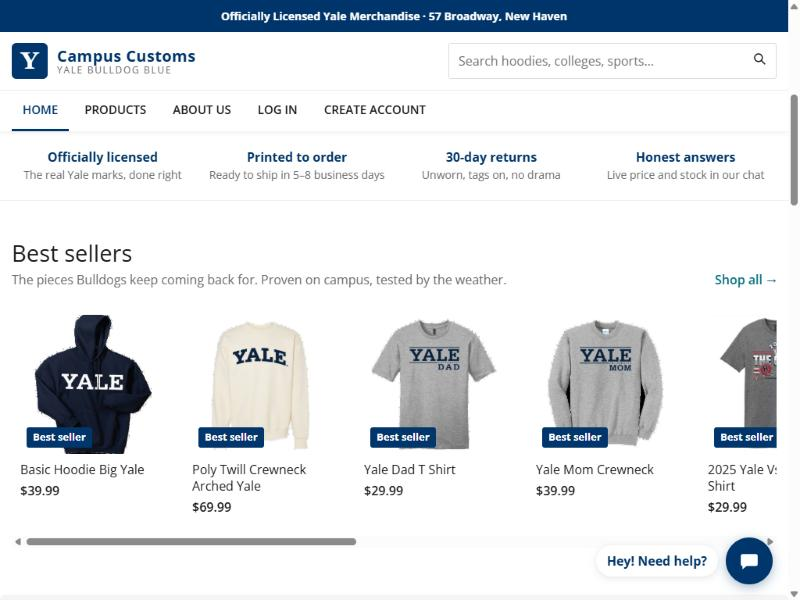
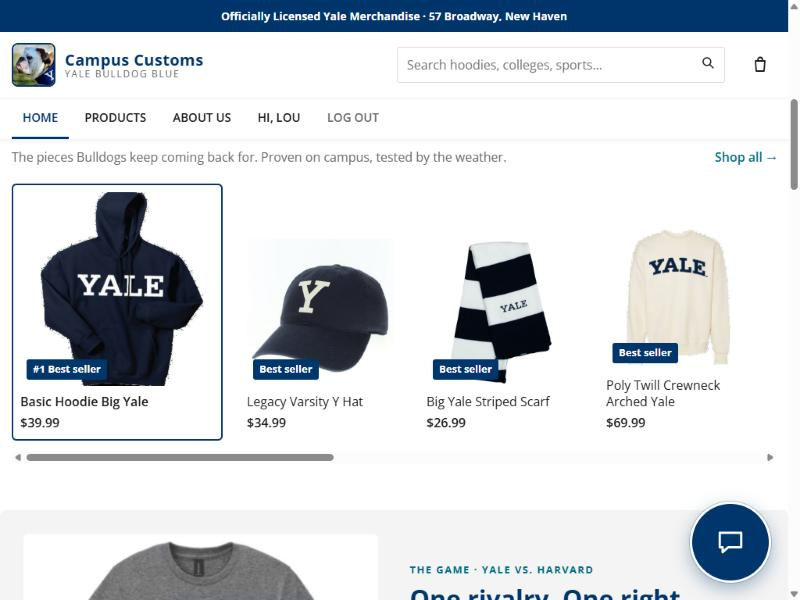
Home: #1 best-seller hoodie shown larger in its row
- Basic Hoodie Big Yale card is about 30% wider than the rest, with a thin
  navy frame and a "#1 Best seller" badge
- Screenshot p3_02 refreshed, prompt log updated

diff --git a/frontend/src/components/ProductCard.tsx b/frontend/src/components/ProductCard.tsx
@@ -8,9 +8,10 @@ interface Props {
   product: ProductSummary
   showDescription?: boolean
   showActions?: boolean
+  featured?: boolean  // shown a little larger, e.g. the #1 best seller
 }
 
-export default function ProductCard({ product, showDescription = true, showActions = false }: Props) {
+export default function ProductCard({ product, showDescription = true, showActions = false, featured = false }: Props) {
   const top = product.best_seller_rank !== null && product.best_seller_rank <= 12
   const { add } = useCart()
   const [choosing, setChoosing] = useState(false)
@@ -23,11 +24,11 @@ export default function ProductCard({ product, showDescription = true, showActio
   }
 
   return (
-    <div className="product-card">
+    <div className={`product-card${featured ? ' product-card-featured' : ''}`}>
       <Link to={`/products/${product.product_id}`} className="product-card-link">
         <div className="product-card-image">
           <img src={product.image_url} alt={product.name} loading="lazy" />
-          {top && <span className="badge badge-best">Best seller</span>}
+          {top && <span className="badge badge-best">{featured && product.best_seller_rank === 1 ? '#1 Best seller' : 'Best seller'}</span>}
           {!product.in_stock && <span className="badge badge-sold">Sold out</span>}
         </div>
         <div className="product-card-body">

diff --git a/frontend/src/styles.css b/frontend/src/styles.css
@@ -118,8 +118,11 @@ button, input, select { font: inherit; }
 .section-head { display: flex; justify-content: space-between; align-items: end; gap: 16px; margin-bottom: 18px; }
 .section-title { font-size: 1.825rem; margin-bottom: 4px; }
 .section-intro { margin: 0; color: var(--text-light); max-width: 46em; }
-.product-row { display: grid; grid-auto-flow: column; grid-auto-columns: minmax(200px, 1fr); gap: 20px; overflow-x: auto; padding: 4px 4px 14px; scroll-snap-type: x mandatory; }
-.product-row > * { scroll-snap-align: start; }
+.product-row { display: flex; align-items: flex-end; gap: 20px; overflow-x: auto; padding: 4px 4px 14px; scroll-snap-type: x mandatory; }
+.product-row > * { flex: 0 0 210px; scroll-snap-align: start; height: auto; }
+/* The #1 best-selling hoodie stands a little larger than the rest of its row */
+.product-row > .product-card-featured { flex-basis: 270px; box-shadow: 0 0 0 2px var(--navy) inset; }
+.product-card-featured h3 { font-size: 1.05rem; font-weight: 600; }
 .row-skeleton { height: 300px; background: linear-gradient(90deg, #f4f4f4, #ececec, #f4f4f4); background-size: 200% 100%; animation: shimmer 1.2s infinite; border-radius: 6px; }
 @keyframes shimmer { to { background-position: -200% 0; } }
 

diff --git a/frontend/src/components/ProductRow.tsx b/frontend/src/components/ProductRow.tsx
@@ -29,7 +29,8 @@ export default function ProductRow({ title, intro, query, shopLink, shopLabel = 
       {data && (
         <div className="product-row">
           {data.map((p) => (
-            <ProductCard key={p.product_id} product={p} showDescription={false} />
+            <ProductCard key={p.product_id} product={p} showDescription={false}
+              featured={p.best_seller_rank === 1 && p.category === 'Hoodies'} />
           ))}
         </div>
       )}

diff --git a/AI_prompts.md b/AI_prompts.md
@@ -300,6 +300,14 @@ This is the log of what I typed to my vibe coder (Claude Code) while building th
   - Screenshots `p5_13` to `p5_15`.
 - **Pushed** to `github.com/Louyale/campuscustomschat`.
 
+> make the best seller hoodie a little larger than the rest
+
+**Result:** In the home page's Best sellers row (and the hoodie row), the #1 best seller, the Basic Hoodie Big Yale, is now about 30% wider than the other cards (270 px vs 210 px), with a thin navy frame and a "#1 Best seller" badge. Screenshot `p3_02` refreshed.
+
+> Yes, commit the larger best-seller hoodie and push it to the campuscustomschat repo.
+
+**Result:** Committed and pushed to `github.com/Louyale/campuscustomschat`.
+
 ---
 
 ## Appendix: setup prompts (before Problem 1)
